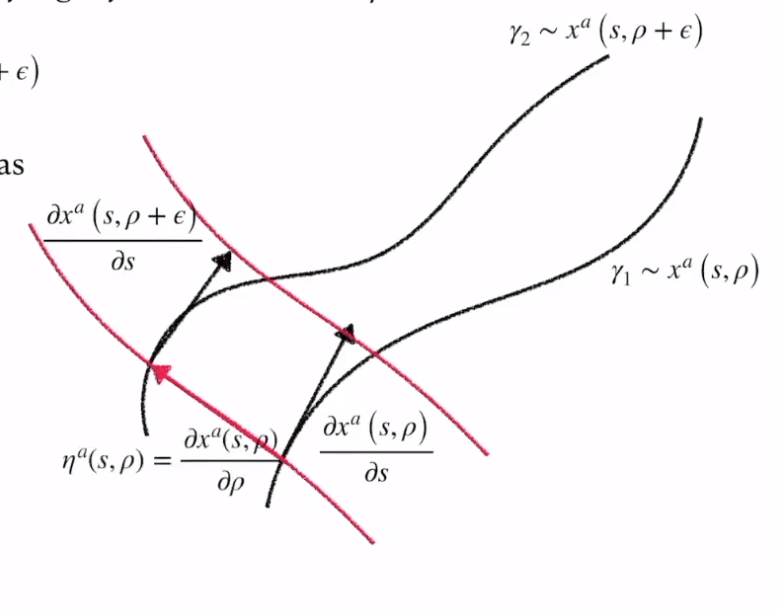
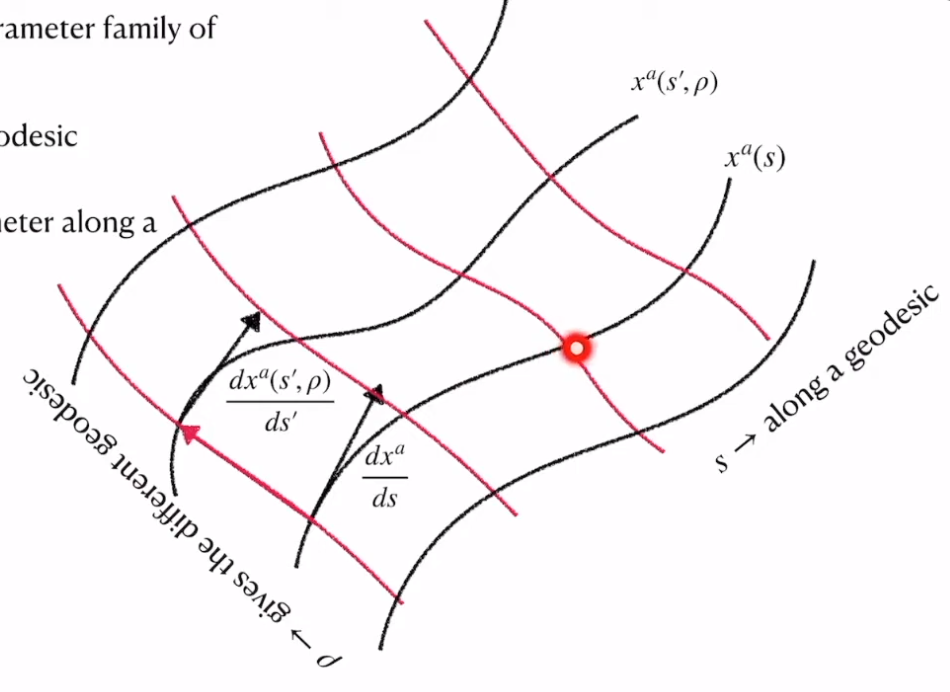
Updated GTR notes 12 march 2024

diff --git a/pages/academics/gtr_and_cosmology/index.jsx b/pages/academics/gtr_and_cosmology/index.jsx
@@ -1679,6 +1679,43 @@ const GtrAndCosmology = () => {
                                     It seems like curvature of sphere is not same everywhere, i.e. it's \\(1\\) on equator and \\(0\\) on the poles. However, the Riemann Tensor has upper and lower indices which leads to lots of confusion. So, if we raise the index such that we have \\(  R^{21}_{21} = \\large{\\frac{1}{\\sin^2{\\theta}}} \\times \\sin^2{\\theta} = 1 \\), thus implying that curvature on a sphere is constant.
                             `
                         },
+                        {
+                            title: 'Geodesic Deviation',
+                                    content: `
+                                    The Riemann Tensor \\( R_{abc}^d \\) can be contracted in the indices \\(b\\) and \\(d\\) (and of course we cannot contract between indices \\(a\\) and \\(b\\) or \\(c\\) and \\(d\\) because of the anti-symmetry nature of them, and if we tried to do so, we would get 0), or we can write \\( R^{bd}_{abcd} \\neq 0 \\). This part of Riemann Tensor is called Ricci Tensor, which is a second rank symmetric tensor.
+                                    <br/>
+                                    <div class='bg-blue-300/30 px-3 py-[0.1pt] rounded-md my-1 mb-3 mx-auto max-w-max'>
+                                        \\[
+                                            \\text{Ricci : } R_{ac} = g^{bd} R_{abcd}    
+                                        \\]
+                                    </div>
+                                    Symmetry of Ricci Tensor should be clear from the properties of Riemann Tensor. We can further contract Ricci Tensor to construct Ricci scalar, which is given by
+                                    <div class='bg-blue-300/30 px-3 py-[0.1pt] rounded-md my-1 mb-3 mx-auto max-w-max'>
+                                    \\[
+                                        R = g^{ab}R_{ab}    
+                                    \\]
+                                    </div>
+                                    This is also called "Sacalar Curvature".
+                                    <p class='text-lg underline underline-offset-8 mt-5 mb-2 font-semibold text-center text-blue-500'> The Geodesic Deviation Equation </p>
+                                    Let us consider a curve \\( \\gamma(s) \\), which is parameterized by arc-length parameter "\\(s\\)", then \\( x^a = x^a(s) \\)  is the coordinate of curve along "\\(s\\)". Let \\( u^a(s) \\) be the tangent vector to the curve \\( \\gamma \\), then \\( \\Large{ u^a = \\frac{dx^a(s)}{ds} } \\).
+                                    <Image
+                                        src="/gtr_and_cosmo/28_1.jpeg"
+                                        alt="Line"
+                                        width={10}
+                                        height={50}
+                                        class="mx-auto scale-75 rounded-lg"
+                                    />
+                                    If \\( \\gamma \\) is Geodesic, then
+                                    \\[
+                                        \\begin{align}
+                                            a^p &\\equiv \\frac{Du^p}{Ds} \\\\
+                                            &\\implies \\frac{d u^p}{ds} + \\Gamma^p_{qr} u^q u^r = 0 \\\\
+                                            &\\implies \\frac{d^2 x^p}{ds^2} + \\Gamma^p_{qr} \\frac{dx^q}{ds}\\frac{dx^r}{ds} = 0
+                                        \\end{align}
+                                    \\]
+                                    The curve satisfies the Geodesic equation.
+                                    `
+                        },
     ];
 
     const [openSection, setOpenSection] = useState(null);
